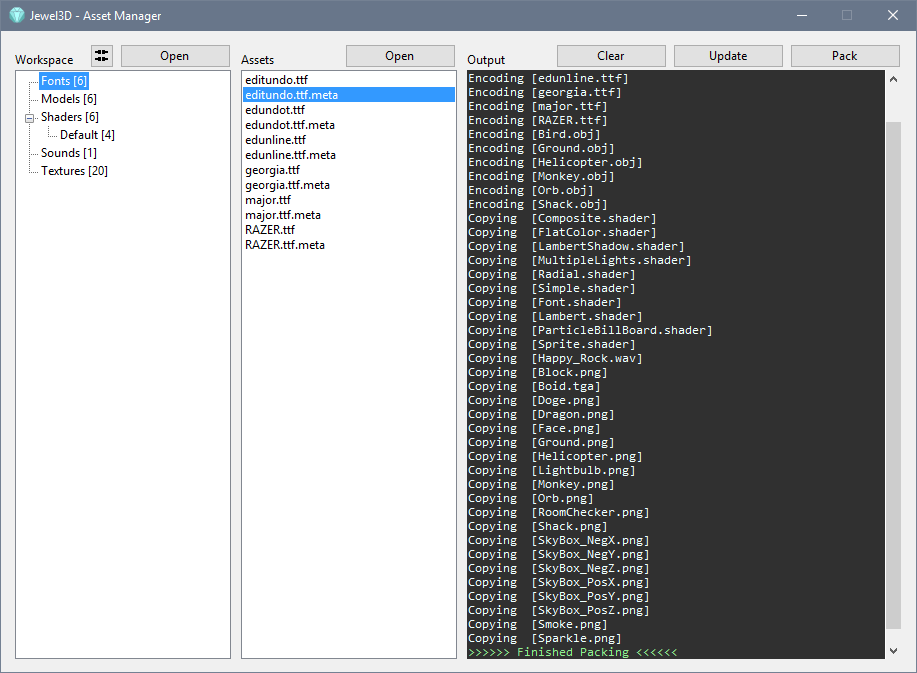
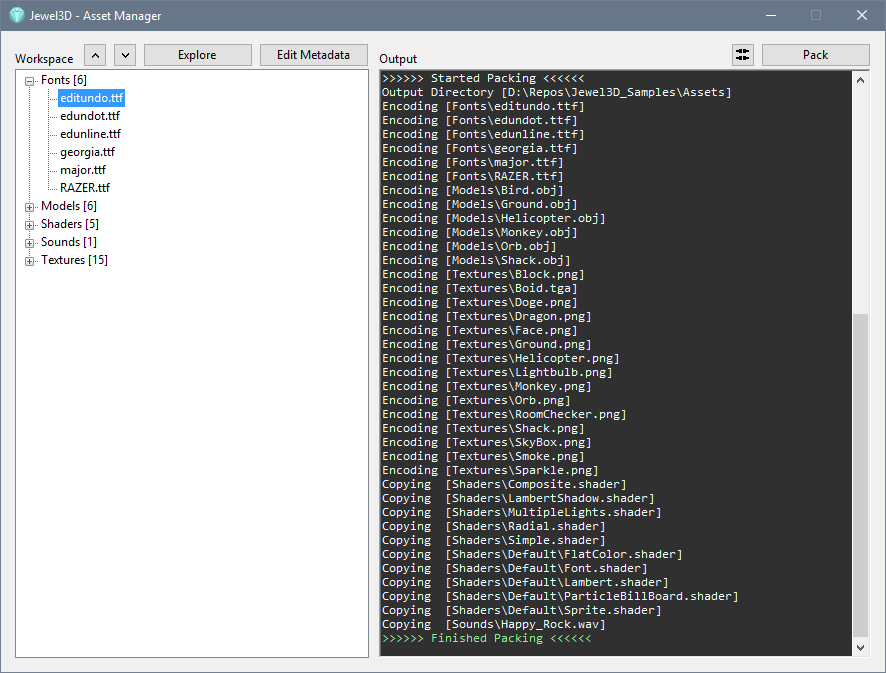
Updated AssetManager documentation
- Made the console panel larger

Changed region(s): [[0.0, 0.0624, 1.0, 0.9985], [0.0305, 0.0, 0.1828, 0.0312]]

diff --git a/Tools/AssetManager/Manager.Designer.cs b/Tools/AssetManager/Manager.Designer.cs
@@ -57,7 +57,7 @@
 			this.treeViewAssets.Location = new System.Drawing.Point(14, 38);
 			this.treeViewAssets.Margin = new System.Windows.Forms.Padding(5, 3, 5, 3);
 			this.treeViewAssets.Name = "treeViewAssets";
-			this.treeViewAssets.Size = new System.Drawing.Size(423, 589);
+			this.treeViewAssets.Size = new System.Drawing.Size(354, 589);
 			this.treeViewAssets.TabIndex = 7;
 			// 
 			// labelWorkspace
@@ -83,7 +83,7 @@
 			// 
 			this.label1.AutoSize = true;
 			this.label1.Font = new System.Drawing.Font("Segoe UI", 9F, System.Drawing.FontStyle.Regular, System.Drawing.GraphicsUnit.Point, ((byte)(0)));
-			this.label1.Location = new System.Drawing.Point(444, 20);
+			this.label1.Location = new System.Drawing.Point(375, 20);
 			this.label1.Name = "label1";
 			this.label1.Size = new System.Drawing.Size(45, 15);
 			this.label1.TabIndex = 16;
@@ -92,15 +92,14 @@
 			// Output
 			// 
 			this.Output.BackColor = System.Drawing.Color.FromArgb(((int)(((byte)(48)))), ((int)(((byte)(48)))), ((int)(((byte)(48)))));
-			this.Output.BorderStyle = System.Windows.Forms.BorderStyle.None;
 			this.Output.Font = new System.Drawing.Font("Consolas", 9F, System.Drawing.FontStyle.Regular, System.Drawing.GraphicsUnit.Point, ((byte)(0)));
 			this.Output.ForeColor = System.Drawing.Color.LightGray;
-			this.Output.Location = new System.Drawing.Point(447, 38);
+			this.Output.Location = new System.Drawing.Point(378, 38);
 			this.Output.Margin = new System.Windows.Forms.Padding(5, 3, 5, 3);
 			this.Output.Name = "Output";
 			this.Output.ReadOnly = true;
 			this.Output.ScrollBars = System.Windows.Forms.RichTextBoxScrollBars.Vertical;
-			this.Output.Size = new System.Drawing.Size(423, 589);
+			this.Output.Size = new System.Drawing.Size(492, 589);
 			this.Output.TabIndex = 19;
 			this.Output.Text = "";
 			// 
@@ -140,7 +139,7 @@
 			// buttonEditMetadata
 			// 
 			this.buttonEditMetadata.Enabled = false;
-			this.buttonEditMetadata.Location = new System.Drawing.Point(327, 12);
+			this.buttonEditMetadata.Location = new System.Drawing.Point(258, 12);
 			this.buttonEditMetadata.Name = "buttonEditMetadata";
 			this.buttonEditMetadata.Size = new System.Drawing.Size(110, 24);
 			this.buttonEditMetadata.TabIndex = 28;

diff --git a/Resources/Docs/AssetManager.md b/Resources/Docs/AssetManager.md
@@ -12,19 +12,16 @@ In the AssetManager, each Encoder is associated with a specific file extension. 
 Custom Encoders can be created for game-specific assets (levels, items, dialog-trees etc.), allowing you to easily pack game data.
 
 # Metadata
-Every asset with an associated encoder has metaData created for it. Metadata is saved adjacent to the asset (```asset.extension.meta```) as plain text.
+Every asset with an associated encoder has metaData created for it. Metadata is saved adjacent to the asset (```assetName.extension.meta```) as plain text.
 The content of the metaData file depends on the encoder. These are the properties used when packing the asset into a binary format.
 For instance, .ttf.meta files for fonts specify the output resolution of the generated textures.
 
-# Building Assets
-The AssetManager provides two functions, Updating and Packing. Updating your workspace will ensure that all
-assets have up-to-date metaData associated with them. If an asset doesn't have metaData, Updating the workspace
-will use the Encoder associated with that asset to generate a default metaData file. If an asset already has
-metaData, the Encoder will be used to validate the integrity of the metadata. For now, metaData is edited manually with a text editor.
+Metadata files are automatically updated and added to the workspace while the AssetManager is running.
 
-Packing the workspace will prepare all assets for use by the game. An ```Assets``` folder will be created adjacent to the Workspace.
-All assets with an associated Encoder will be converted using the DLL and saved to the Assets folder. Any remaining assets are
-copied 1:1 to the folder.
+# Building Assets
+Packing the workspace will prepare all assets for use by the game. By default, an output folder called ```Assets``` will be created adjacent to the Workspace.
+All assets with an associated Encoder will be converted using the DLL and saved to the Assets folder. Any remaining assets are copied 1:1 to the folder.
+The output folder is populated with the same folder structure as the workspace.
 
 # Folder Structure
 When assets are packing, the asset directory is re-created from scratch. This directory should be completely driven
